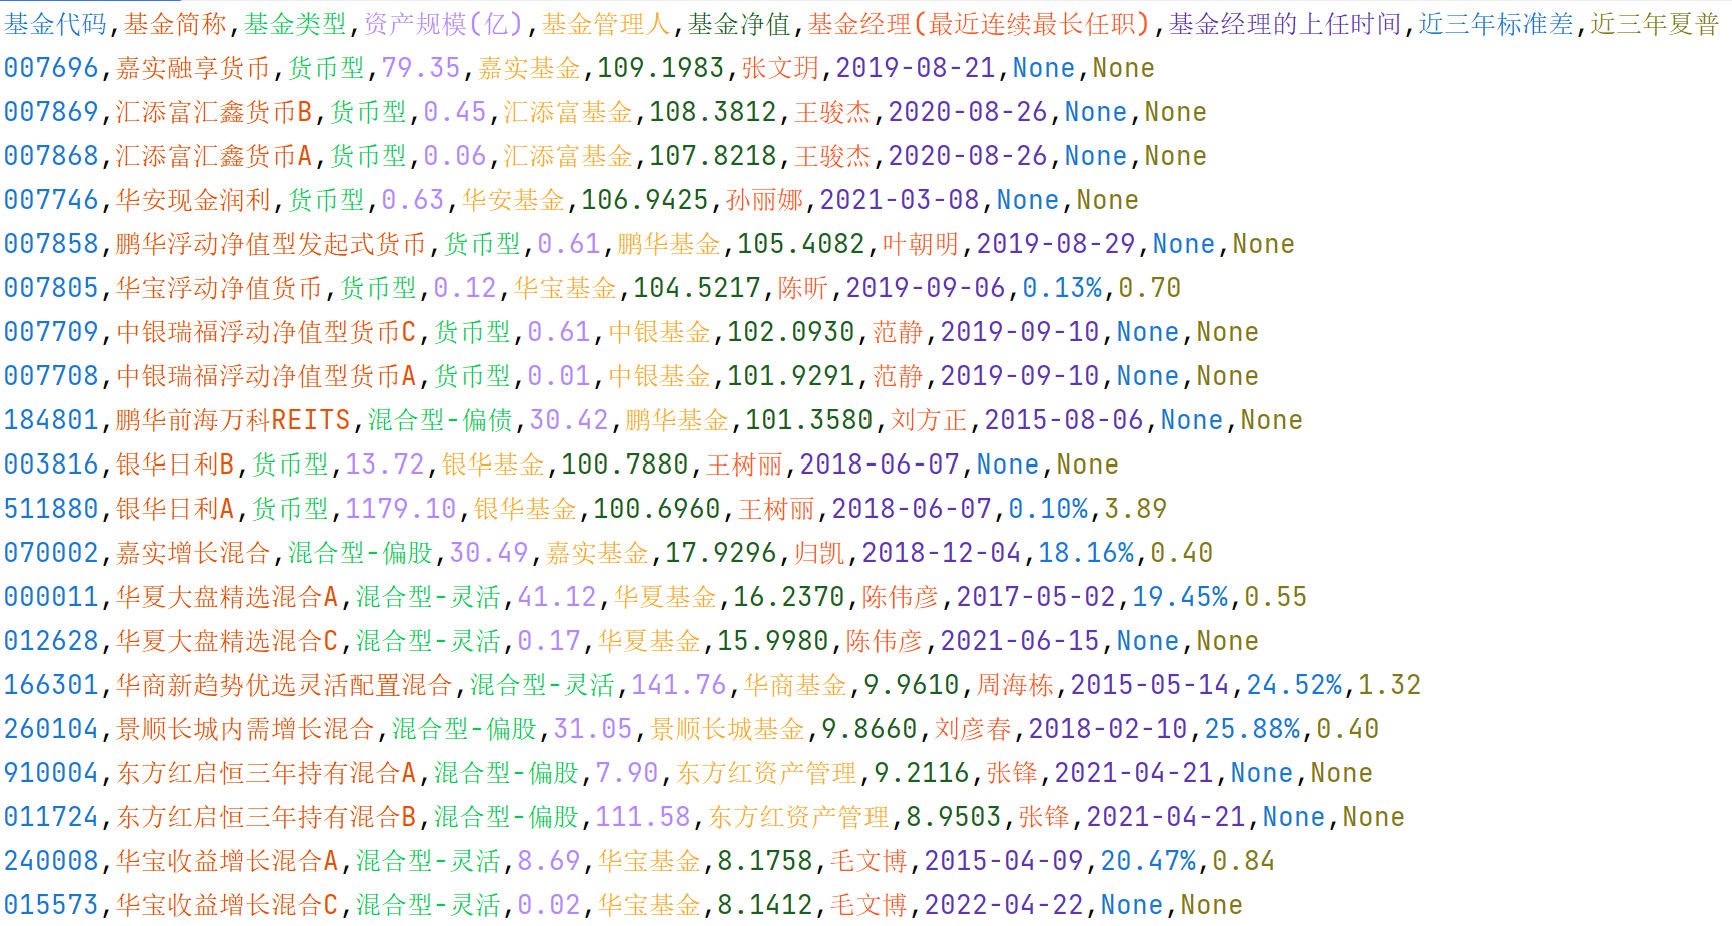
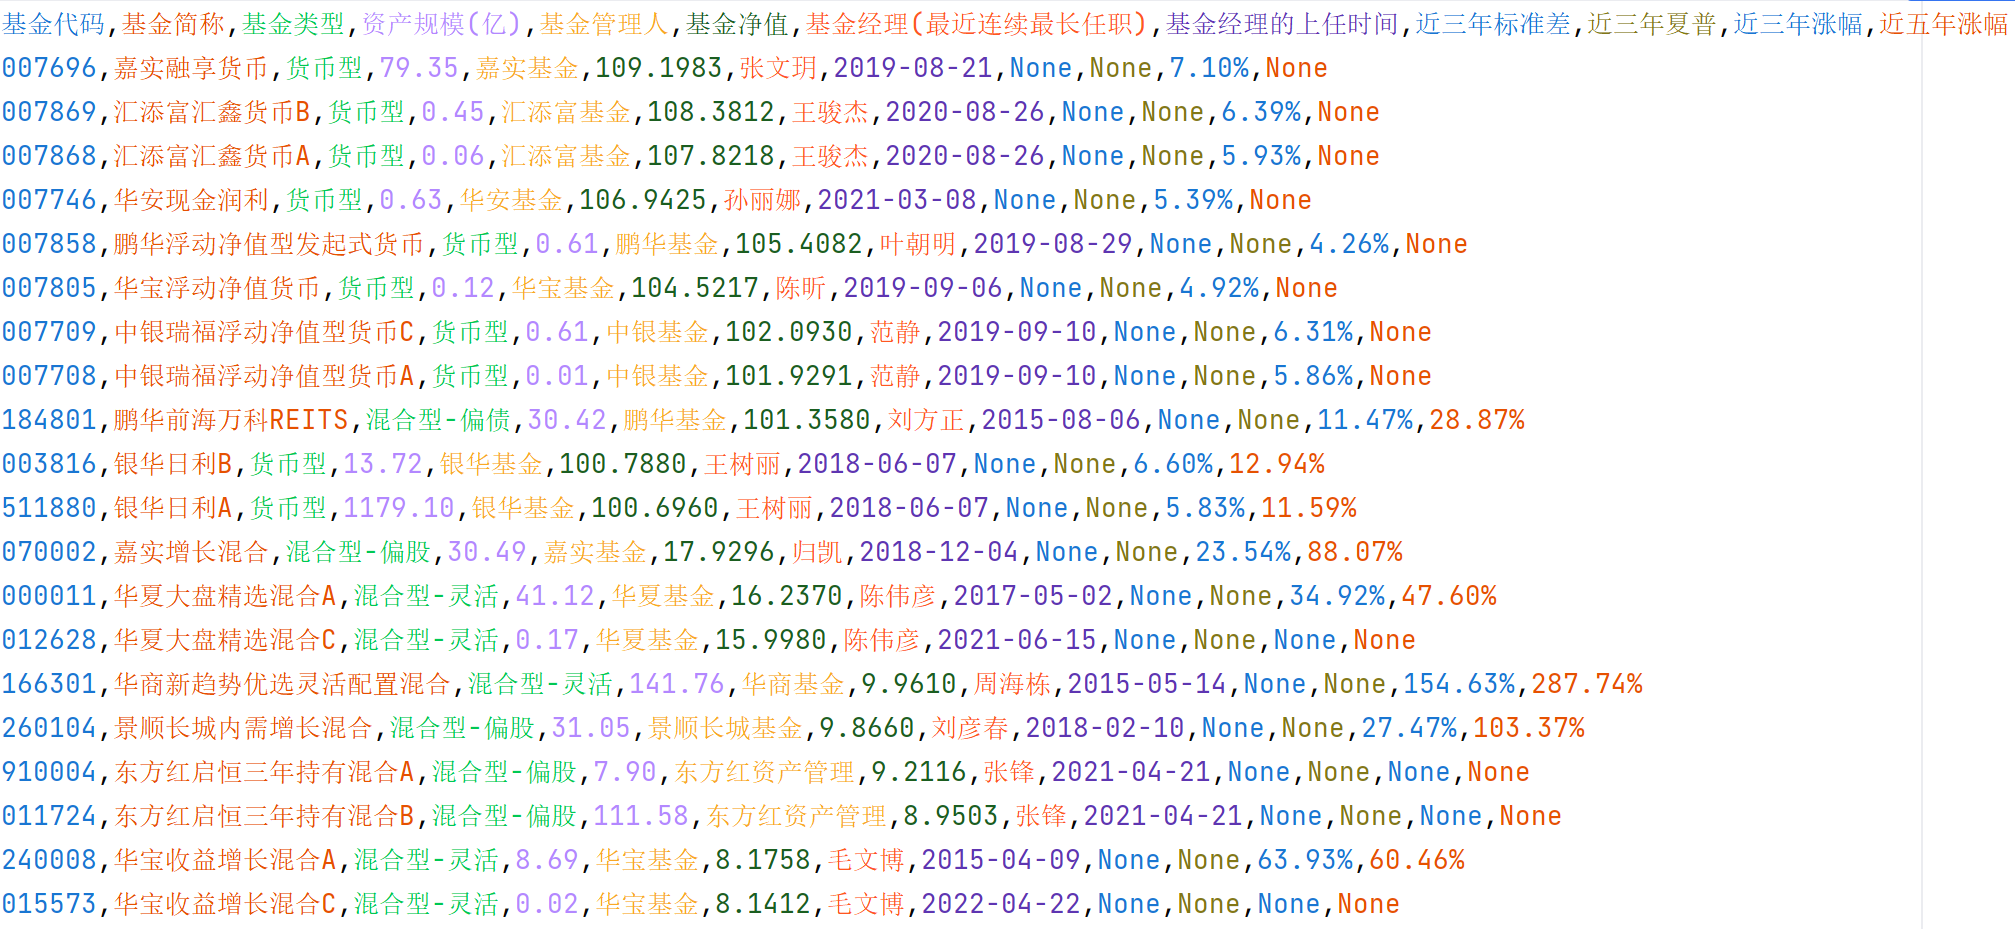
feature 新增对近三年五年涨幅的爬取

Changed region(s): [[0.0, 0.0, 0.9977, 0.9978]]

diff --git a/module/crawling_data/data_mining/impl/rise.py b/module/crawling_data/data_mining/impl/rise.py
@@ -1,0 +1,36 @@
+import re
+from string import Template
+from typing import NoReturn
+
+from requests import Response
+
+from module.crawling_data.data_mining.data_cleaning_strategy_factory import DataCleaningStrategy
+from process_manager import FundCrawlingResult
+
+
+class RiseStrategy(DataCleaningStrategy):
+    """
+    解析基金的基本概况
+    """
+    url_template = Template('https://fundf10.eastmoney.com/FundArchivesDatas.aspx?type=jdzf&code=$fund_code')
+
+    fund_3_years_increase_pattern = re.compile(r'近3年[\s\S]*?((\d+?(,\d+)*?(\.\d+)?)%|---)')
+    fund_5_years_increase_pattern = re.compile(r'近5年[\s\S]*?((\d+?(,\d+)*?(\.\d+)?)%|---)')
+
+    def build_url(self, fund_code: str) -> str:
+        return self.url_template.substitute(fund_code=fund_code)
+
+    def fill_result(self, response: Response, result: FundCrawlingResult) -> NoReturn:
+        page_text = response.text
+
+        fund_3_years_increase = self.fund_3_years_increase_pattern.search(page_text)
+        if fund_3_years_increase:
+            increase = fund_3_years_increase.group(1)
+            increase = increase if increase != '---' else None
+            result.fund_info_dict[FundCrawlingResult.Header.THREE_YEARS_INCREASE] = increase
+
+        fund_5_years_increase = self.fund_5_years_increase_pattern.search(page_text)
+        if fund_5_years_increase:
+            increase = fund_5_years_increase.group(1)
+            increase = increase if increase != '---' else None
+            result.fund_info_dict[FundCrawlingResult.Header.FIVE_YEARS_INCREASE] = increase

diff --git a/module/crawling_data/data_mining/data_cleaning_strategy_factory.py b/module/crawling_data/data_mining/data_cleaning_strategy_factory.py
@@ -6,6 +6,7 @@ from module.crawling_data.data_mining.data_cleaning_strategy import DataCleaning
 from module.crawling_data.data_mining.data_mining_type import PageType
 from module.crawling_data.data_mining.impl.manager import ManagerStrategy
 from module.crawling_data.data_mining.impl.overview import OverviewStrategy
+from module.crawling_data.data_mining.impl.rise import RiseStrategy
 from module.crawling_data.data_mining.impl.sharpe import MetricsStrategy
 
 
@@ -17,7 +18,8 @@ class DataCleaningStrategyFactory:
     _strategy_dict: dict[PageType, DataCleaningStrategy] = {
         PageType.OVERVIEW: OverviewStrategy(),
         PageType.MANAGER: ManagerStrategy(),
-        PageType.METRICS: MetricsStrategy()
+        PageType.METRICS: MetricsStrategy(),
+        PageType.INCREASE: RiseStrategy()
     }
 
     @classmethod

diff --git a/test_process_manager.py b/test_process_manager.py
@@ -65,11 +65,11 @@ class SimpleTestTaskManager(TestCase):
 
 class SmokeTestTaskManager(TestCase):
     """
-    冒烟测试, 小批量爬取基金信息, 主要用于测试数据的爬取和清洗逻辑
+    冒烟测试, 小批量爬取基金信息, 主要用于验证数据的爬取和清洗逻辑
     """
 
     def test_run(self):
-        GetNeedCrawledFundByWeb4Test.test_case_num = 1000
+        GetNeedCrawledFundByWeb4Test.test_case_num = 100
         manager = TaskManager(GetNeedCrawledFundByWeb4Test()
                               , AsyncCrawlingData()
                               , SaveResult2File())

diff --git a/process_manager.py b/process_manager.py
@@ -61,7 +61,9 @@ class FundCrawlingResult:
         FUND_MANAGER = '基金经理(最近连续最长任职)',
         DATE_OF_APPOINTMENT = '基金经理的上任时间',
         STANDARD_DEVIATION_THREE_YEARS = '近三年标准差',
-        SHARPE_THREE_YEARS = '近三年夏普'
+        SHARPE_THREE_YEARS = '近三年夏普',
+        THREE_YEARS_INCREASE = '近三年涨幅',
+        FIVE_YEARS_INCREASE = '近五年涨幅'
 
     def __init__(self, fund_code: str, fund_name: str):
         self.fund_info_dict = {FundCrawlingResult.Header.FUND_CODE: fund_code,

diff --git a/module/crawling_data/data_mining/data_mining_type.py b/module/crawling_data/data_mining/data_mining_type.py
@@ -14,3 +14,5 @@ class PageType(Enum):
     MANAGER = auto
     # 特色数据 https://fundf10.eastmoney.com/tsdata_910009.html
     METRICS = auto()
+    # 阶段涨幅 https://fundf10.eastmoney.com/jdzf_006624.html
+    INCREASE = auto()

diff --git a/README.md b/README.md
@@ -11,7 +11,7 @@
         推荐网站 晨星中国：www.morningstar.cn
         2023-04-29对整个代码进行了重写，如有问题，请切换回deprecated分支
 
-- 基金类型,资产规模,基金管理人,基金净值,基金经理(最近连续最长任职),基金经理的上任时间,近三年标准差,近三年夏普
+- 基金类型,资产规模,基金管理人,基金净值,基金经理(最近连续最长任职),基金经理的上任时间,近三年标准差,近三年夏普,近三年涨幅,近五年涨幅
 - 爬取全部数据需要4190s(2023-04-29 总基金数16445)，瓶颈为网站的反爬策略
   ![Image text](docs/img/result.png)
 
